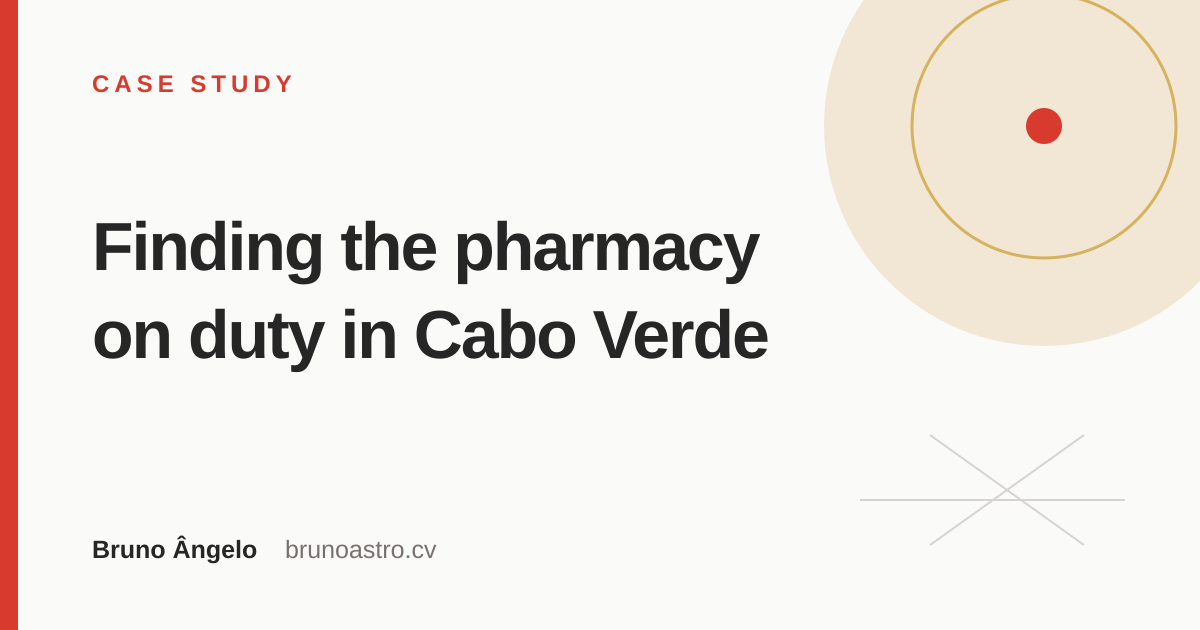
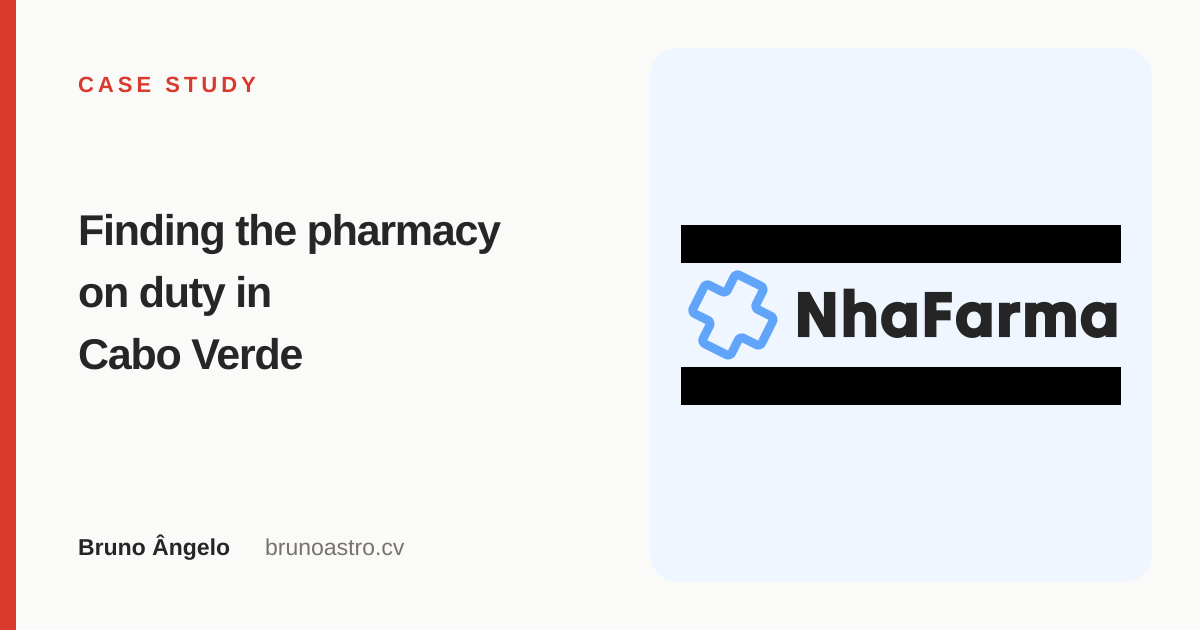
feat: use project covers in social previews

diff --git a/src/pages/index.tsx b/src/pages/index.tsx
@@ -26,7 +26,7 @@ const postImages: Record<string, string> = {
   "nhafarma-pharmacy-duty-platform": "/nhafarma-logo.svg",
   "divetribe-forms-platform": "/divetribe-logo.jpg",
   "school-management-api": "/database.png",
-  "teaching-an-ai-to-drive": "/neural.png",
+  "teaching-an-ai-to-drive": "/blog/teaching-ai-car/signal-flow.png",
 };
 
 const postTranslations: Record<string, { title: string; description: string }> = {
